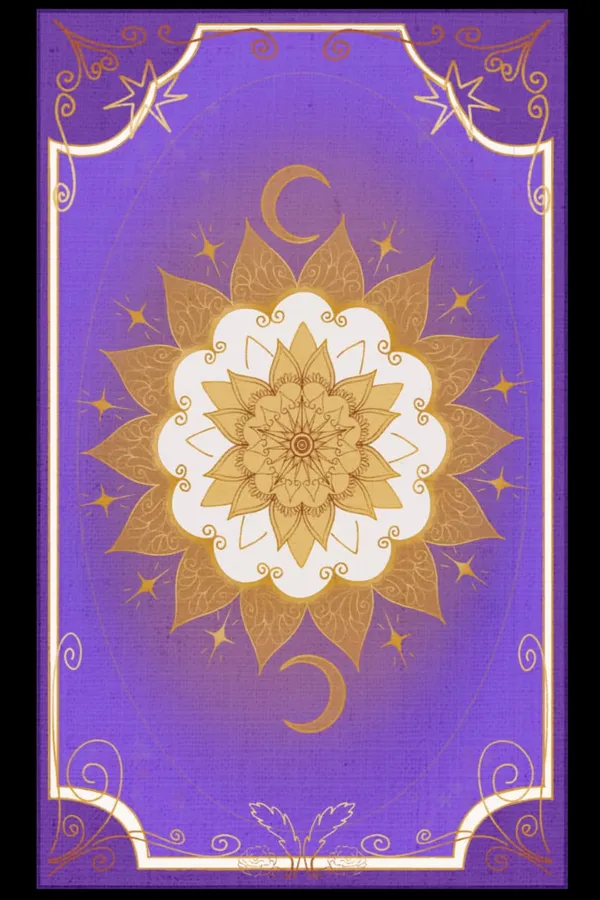
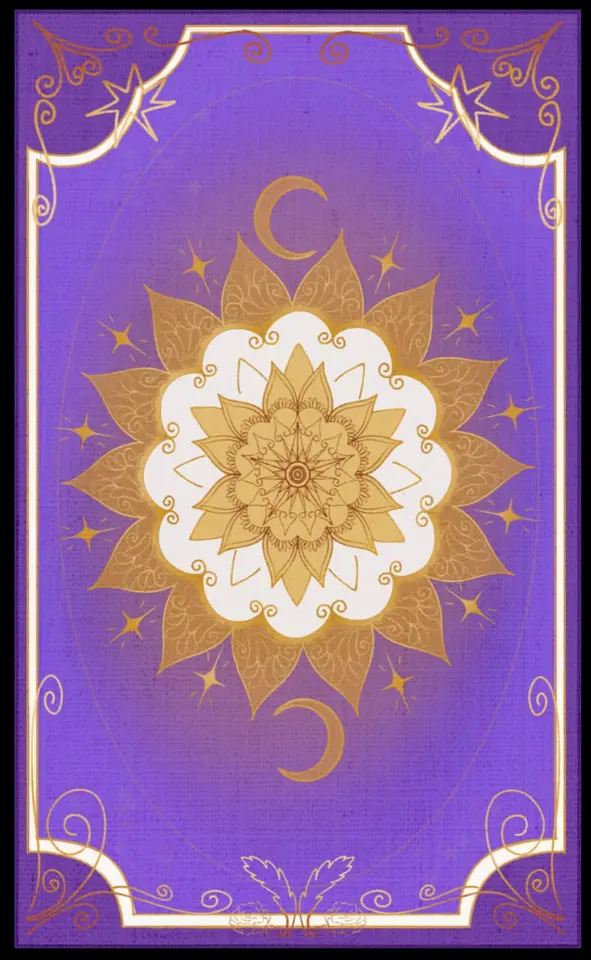
refactor(readings): dorso íntegro ajustando la carta a su proporción (T-PROD-005)
El Delta descartó el relleno negro lateral. En vez de adaptar la imagen al
contenedor 2:3, se adapta el contenedor a la imagen:

- Regenera card-back.webp sin relleno (591x960, 53 KB): la imagen original
  queda íntegra, sin barras ni recorte del marco dorado.
- TarotCard: sizeClasses pasa de altura fija (h-48/h-60/h-72) a solo ancho +
  CARD_ASPECT_CLASS (aspect-[197/320]), la proporción real del dorso.
- Alinea los skeletons con forma de carta (tarot/lectura, ritual/lectura,
  DailyCardExperience) a la nueva proporción para evitar layout shift.
- Efecto colateral positivo: los frentes del mazo (300x527) pasan de perder
  ~15% vertical por object-cover a perder solo ~8%.

diff --git a/frontend/src/components/features/readings/TarotCard.tsx b/frontend/src/components/features/readings/TarotCard.tsx
@@ -21,18 +21,22 @@ export interface TarotCardProps {
   className?: string;
 }
 
-/**
- * Card back artwork, shared by every face-down card in the app.
- * The asset is already in the 2:3 ratio of the card containers, so `object-cover`
- * shows the full artwork without cropping the golden frame.
- */
+/** Card back artwork, shared by every face-down card in the app */
 export const CARD_BACK_IMAGE_SRC = '/images/tarot/card-back.webp';
 
-/** Size configuration mapping */
+/**
+ * Aspect ratio of the deck: it matches the card back artwork (591x960),
+ * so the back is shown whole — no letterboxing and no cropping of its golden frame.
+ * Cards derive their height from their width, so every card size stays proportional.
+ * Reuse this class for card-shaped skeletons to avoid layout shift.
+ */
+export const CARD_ASPECT_CLASS = 'aspect-[197/320]';
+
+/** Size configuration mapping (width only — height comes from the aspect ratio) */
 const sizeClasses = {
-  sm: 'w-32 h-48',
-  md: 'w-40 h-60',
-  lg: 'w-48 h-72',
+  sm: 'w-32',
+  md: 'w-40',
+  lg: 'w-48',
 } as const;
 
 /** Image sizes for Next.js Image optimization */
@@ -79,8 +83,9 @@ export function TarotCard({ card, isRevealed, onClick, size = 'md', className }:
         'relative rounded-xl shadow-lg',
         // Perspective for 3D effect
         '[perspective:1000px]',
-        // Size
+        // Size (width) and deck proportions (height)
         sizeClasses[size],
+        CARD_ASPECT_CLASS,
         // Cursor and hover effects
         onClick && 'cursor-pointer',
         !isRevealed && onClick && 'transition-transform duration-300 hover:-translate-y-1',

diff --git a/frontend/src/components/features/readings/TarotCard.test.tsx b/frontend/src/components/features/readings/TarotCard.test.tsx
@@ -1,6 +1,6 @@
 import { describe, it, expect, vi } from 'vitest';
 import { render, screen, fireEvent, within } from '@testing-library/react';
-import { TarotCard, CARD_BACK_IMAGE_SRC } from './TarotCard';
+import { TarotCard, CARD_ASPECT_CLASS, CARD_BACK_IMAGE_SRC } from './TarotCard';
 import type { ReadingCard } from '@/types/reading.types';
 
 // Mock Next.js Image component
@@ -73,28 +73,42 @@ describe('TarotCard', () => {
       render(<TarotCard isRevealed={false} size="sm" />);
 
       const cardContainer = screen.getByTestId('tarot-card');
-      expect(cardContainer).toHaveClass('w-32', 'h-48');
+      expect(cardContainer).toHaveClass('w-32', CARD_ASPECT_CLASS);
     });
 
     it('should render with medium size by default', () => {
       render(<TarotCard isRevealed={false} />);
 
       const cardContainer = screen.getByTestId('tarot-card');
-      expect(cardContainer).toHaveClass('w-40', 'h-60');
+      expect(cardContainer).toHaveClass('w-40', CARD_ASPECT_CLASS);
     });
 
     it('should render with medium size when size="md"', () => {
       render(<TarotCard isRevealed={false} size="md" />);
 
       const cardContainer = screen.getByTestId('tarot-card');
-      expect(cardContainer).toHaveClass('w-40', 'h-60');
+      expect(cardContainer).toHaveClass('w-40', CARD_ASPECT_CLASS);
     });
 
     it('should render with large size when size="lg"', () => {
       render(<TarotCard isRevealed={false} size="lg" />);
 
       const cardContainer = screen.getByTestId('tarot-card');
-      expect(cardContainer).toHaveClass('w-48', 'h-72');
+      expect(cardContainer).toHaveClass('w-48', CARD_ASPECT_CLASS);
+    });
+
+    it('should keep the card back aspect ratio in every size (no fixed height)', () => {
+      const sizes = ['sm', 'md', 'lg'] as const;
+
+      sizes.forEach((size) => {
+        const { unmount } = render(<TarotCard isRevealed={false} size={size} />);
+
+        const cardContainer = screen.getByTestId('tarot-card');
+        expect(cardContainer).toHaveClass(CARD_ASPECT_CLASS);
+        expect(cardContainer.className).not.toMatch(/\bh-\d/);
+
+        unmount();
+      });
     });
   });
 

diff --git a/frontend/src/components/features/daily-reading/DailyCardExperience.tsx b/frontend/src/components/features/daily-reading/DailyCardExperience.tsx
@@ -8,7 +8,7 @@ import { ROUTES } from '@/lib/constants/routes';
 import { Button } from '@/components/ui/button';
 import { Skeleton } from '@/components/ui/skeleton';
 import { ErrorDisplay } from '@/components/ui/error-display';
-import { TarotCard } from '@/components/features/readings/TarotCard';
+import { CARD_ASPECT_CLASS, TarotCard } from '@/components/features/readings/TarotCard';
 import { ShareButton } from '@/components/features/shared/ShareButton';
 import FreeReadingUpgradeBanner from '@/components/features/readings/FreeReadingUpgradeBanner';
 import { AnonymousLimitReached } from './AnonymousLimitReached';
@@ -241,7 +241,7 @@ export function DailyCardExperience() {
     return (
       <div className="flex flex-col items-center gap-8" aria-label="Cargando carta del día">
         <Skeleton data-testid="loading-skeleton" className="h-12 w-64" />
-        <Skeleton className="h-72 w-48 rounded-xl" />
+        <Skeleton className={cn('w-48 rounded-xl', CARD_ASPECT_CLASS)} />
         <Skeleton className="h-32 w-full max-w-lg" />
       </div>
     );
@@ -270,7 +270,7 @@ export function DailyCardExperience() {
     return (
       <div className="flex flex-col items-center gap-8" aria-label="Cargando carta del día">
         <Skeleton data-testid="loading-skeleton" className="h-12 w-64" />
-        <Skeleton className="h-72 w-48 rounded-xl" />
+        <Skeleton className={cn('w-48 rounded-xl', CARD_ASPECT_CLASS)} />
         <Skeleton className="h-32 w-full max-w-lg" />
       </div>
     );

diff --git a/frontend/src/app/ritual/lectura/page.tsx b/frontend/src/app/ritual/lectura/page.tsx
@@ -3,7 +3,9 @@
 import { Suspense } from 'react';
 import { useSearchParams } from 'next/navigation';
 import { ReadingExperience } from '@/components/features/readings/ReadingExperience';
+import { CARD_ASPECT_CLASS } from '@/components/features/readings/TarotCard';
 import { Skeleton } from '@/components/ui/skeleton';
+import { cn } from '@/lib/utils';
 
 /**
  * Inner component that uses useSearchParams
@@ -51,7 +53,7 @@ function LecturaPageLoading() {
         <div className="flex justify-center">
           <div className="grid grid-cols-3 gap-4">
             {Array.from({ length: 3 }).map((_, index) => (
-              <Skeleton key={index} className="h-60 w-40 rounded-xl" />
+              <Skeleton key={index} className={cn('w-40 rounded-xl', CARD_ASPECT_CLASS)} />
             ))}
           </div>
         </div>

diff --git a/frontend/src/app/tarot/lectura/page.tsx b/frontend/src/app/tarot/lectura/page.tsx
@@ -4,8 +4,10 @@ import { Suspense } from 'react';
 import { useSearchParams } from 'next/navigation';
 import Link from 'next/link';
 import { ReadingExperience } from '@/components/features/readings/ReadingExperience';
+import { CARD_ASPECT_CLASS } from '@/components/features/readings/TarotCard';
 import { ROUTES } from '@/lib/constants/routes';
 import { Skeleton } from '@/components/ui/skeleton';
+import { cn } from '@/lib/utils';
 
 /**
  * Inner component that uses useSearchParams
@@ -55,7 +57,7 @@ function LecturaPageLoading() {
         <div className="flex justify-center">
           <div className="grid grid-cols-3 gap-4">
             {Array.from({ length: 3 }).map((_, index) => (
-              <Skeleton key={index} className="h-60 w-40 rounded-xl" />
+              <Skeleton key={index} className={cn('w-40 rounded-xl', CARD_ASPECT_CLASS)} />
             ))}
           </div>
         </div>

diff --git a/docs/BACKLOG_PRODUCCION_2026_07.md b/docs/BACKLOG_PRODUCCION_2026_07.md
@@ -399,14 +399,16 @@ No existe hoy ninguna integración de ads ni de analytics activa (los `gtag()` d
 
 #### ✅ Tareas específicas
 
-- [x] **Optimizar el asset:** WebP generado en `frontend/public/images/tarot/card-back.webp` (600×900, 56 KB, dentro del target 20-60 KB). **Desvío deliberado sobre el aspect ratio:** el asset se generó en **2:3** (el ratio real de los contenedores `sizeClasses`: `w-32 h-48`, `w-40 h-60`, `w-48 h-72`), no en las proporciones del mazo (300×527 ≈ 1:1.76). Ver nota de decisión abajo.
+- [x] **Optimizar el asset:** WebP generado en `frontend/public/images/tarot/card-back.webp` (591×960, 53 KB, dentro del target 20-60 KB). El asset conserva **íntegra** la imagen original (788×1280 ≈ 197:320), sin relleno ni recorte.
+- [x] **Ajustar la proporción de la carta al dorso:** `sizeClasses` pasa de altura fija (`w-32 h-48`, `w-40 h-60`, `w-48 h-72` → 2:3) a **solo ancho** (`w-32`, `w-40`, `w-48`) + `CARD_ASPECT_CLASS` (`aspect-[197/320]`), la proporción real del dorso. Ver nota de decisión abajo.
 - [x] **Reemplazar el patrón CSS** de `TarotCard.tsx`: los divs decorativos (marco + mandala geométrica + esquinas) se sustituyeron por `<Image src={CARD_BACK_IMAGE_SRC} alt="" fill sizes={imageSizes[size]} className="object-cover" />` dentro de `data-testid="card-back"`. Se conservaron `rounded-xl`, `shadow-lg`, `bg-secondary` (fallback de carga) y `[backface-visibility:hidden]`; se añadió `overflow-hidden` para que la imagen respete el radio.
+- [x] **Skeletons alineados a la nueva proporción** (evitan layout shift): `app/tarot/lectura/page.tsx`, `app/ritual/lectura/page.tsx` y `DailyCardExperience.tsx` reutilizan `CARD_ASPECT_CLASS` en lugar de `h-60 w-40` / `h-72 w-48`.
 - [x] **Unificar el dorso:** el dorso vive **solo** en `TarotCard.tsx`. `CardThumbnails.tsx` **no requiere cambios** — únicamente renderiza cartas boca arriba (`card.imageUrl` de `CardPreview`), nunca dorsos. El resto de vistas con cartas boca abajo (`ReadingExperience`, `DailyCardExperience`, `ReadingDetail`, `SharedReadingView`) reutilizan `TarotCard`, por lo que heredan el dorso automáticamente. Se exportó `CARD_BACK_IMAGE_SRC` como única fuente de verdad del path.
 - [x] **Preservar contrato de tests:** `data-testid="card-back"` intacto. Se reescribió el bloque `Card Back Design` de `TarotCard.test.tsx` (5 tests: src del asset, `alt=""` decorativo, `object-cover`, mismo dorso en `sm`/`lg`, dorso presente con carta no revelada). `smoke.test.tsx` sigue pasando sin cambios.
 - [x] NO se tocó `reversedImageUrl` ni la DB — el dorso es un asset estático del frontend.
 - [x] Verificación visual con Playwright sobre el componente real (sm/md/lg, grid de 12 cartas y animación de flip dorso→frente): dorso completo, nítido y sin deformación en todos los tamaños; asset servido 200 y sin errores de consola.
 
-> **Nota de decisión (aspect ratio del asset):** la imagen original (788×1280 ≈ 1:1.62) es un dorso con marco dorado a sangre. Con `object-cover` dentro de un contenedor 2:3 se recortaba ~4% arriba y abajo, **cortando las líneas horizontales del marco dorado** (se ve el marco "roto"). Solución: el WebP se generó ya en 2:3 rellenando los laterales con el negro del propio borde de la imagen (que es negro puro, `srgb(0,0,0)`), de modo que `object-cover` no recorta nada y el marco queda íntegro. Las franjas laterales son indistinguibles del borde original. Se mantiene `object-cover` (no `object-contain`) porque con el asset ya en 2:3 el ajuste es exacto y `cover` protege ante cualquier cambio futuro de contenedor.
+> **Nota de decisión (proporción de la carta):** la imagen original (788×1280 ≈ 197:320) es un dorso con marco dorado a sangre, mientras que los contenedores de carta eran 2:3. Ninguna de las dos opciones dentro de un 2:3 era aceptable: con `object-cover` se recortaba ~4% arriba y abajo, **cortando las líneas horizontales del marco dorado**; con relleno lateral aparecían barras negras (**descartado por el Delta**). Solución elegida: **darle a la carta la proporción del dorso** (`aspect-[197/320]`, expuesta como `CARD_ASPECT_CLASS`), de modo que el dorso se muestra íntegro sin barras ni recorte. Efecto colateral **positivo**: los frentes del mazo (300×527 ≈ 1:1.76, más altos que el contenedor) pasan de perder ~15% vertical por `object-cover` a perder solo ~8%. Las cartas quedan levemente más altas en toda la app; los skeletons se ajustaron en consecuencia.
 
 #### 🎯 Criterios de Aceptación
 